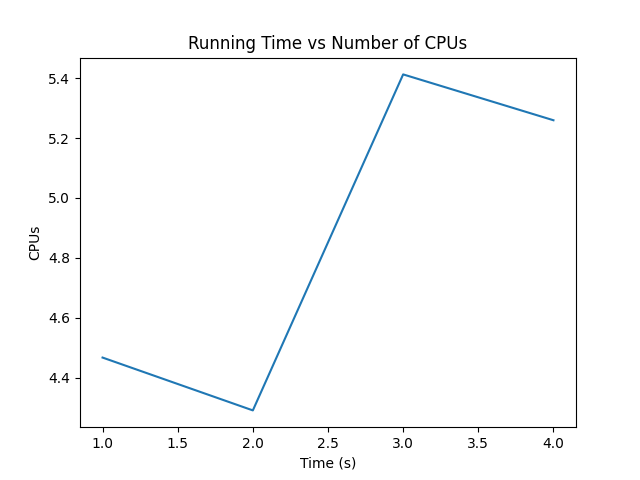
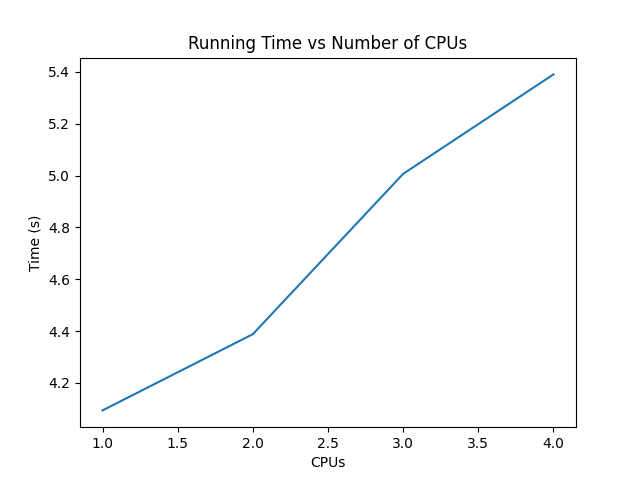
final after task1

diff --git a/task1/mp_assignment_1.py b/task1/mp_assignment_1.py
@@ -9,6 +9,9 @@ import multiprocessing as mp
 import collections
 import time
 import matplotlib.pyplot as plt
+import random
+
+random.seed(0)
 
 # Please, calculate how many words are unique and count each word in the data set.
 # The separation of the word in a sentence should be done by a space character.
@@ -86,7 +89,7 @@ if __name__ == '__main__':
         
     plt.plot(plot_cpus, plot_time)
     plt.title("Running Time vs Number of CPUs")
-    plt.xlabel("Time (s)")
-    plt.ylabel("CPUs")
+    plt.ylabel("Time (s)")
+    plt.xlabel("CPUs")
     plt.savefig("plot.png")
     plt.show()

diff --git a/task1/attempts/task1_Simas.py b/task1/attempts/task1_Simas.py
@@ -8,6 +8,9 @@ import pandas as pd
 import numpy as np
 import multiprocessing as mp
 import collections
+import random
+
+random.seed(0)
 
 # Please, calculate how many words are unique and count each word in the data set.
 # The separation of the word in a sentence should be done by a space character.
